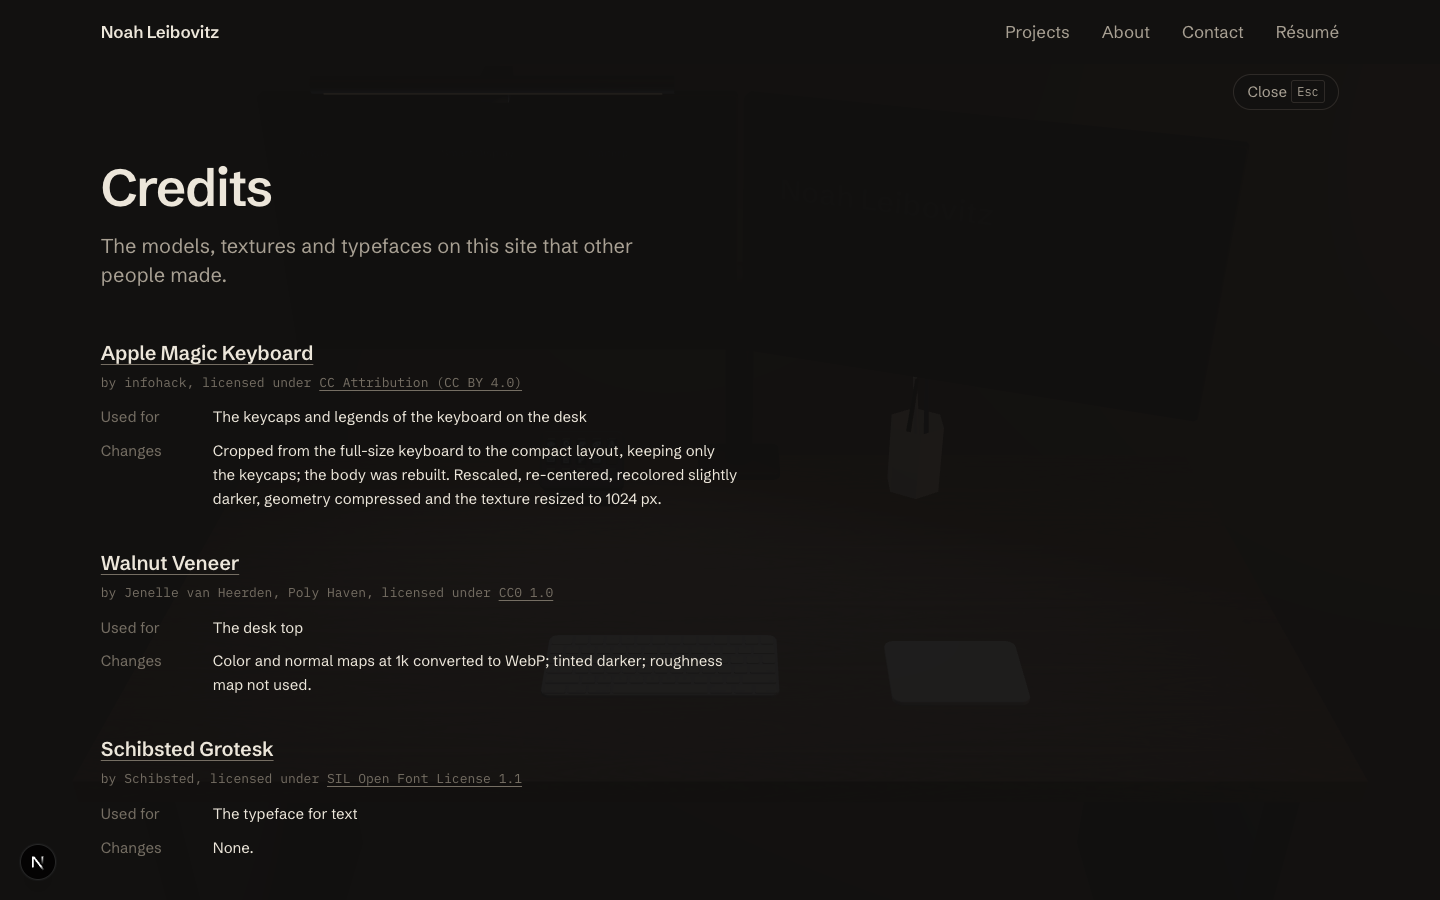
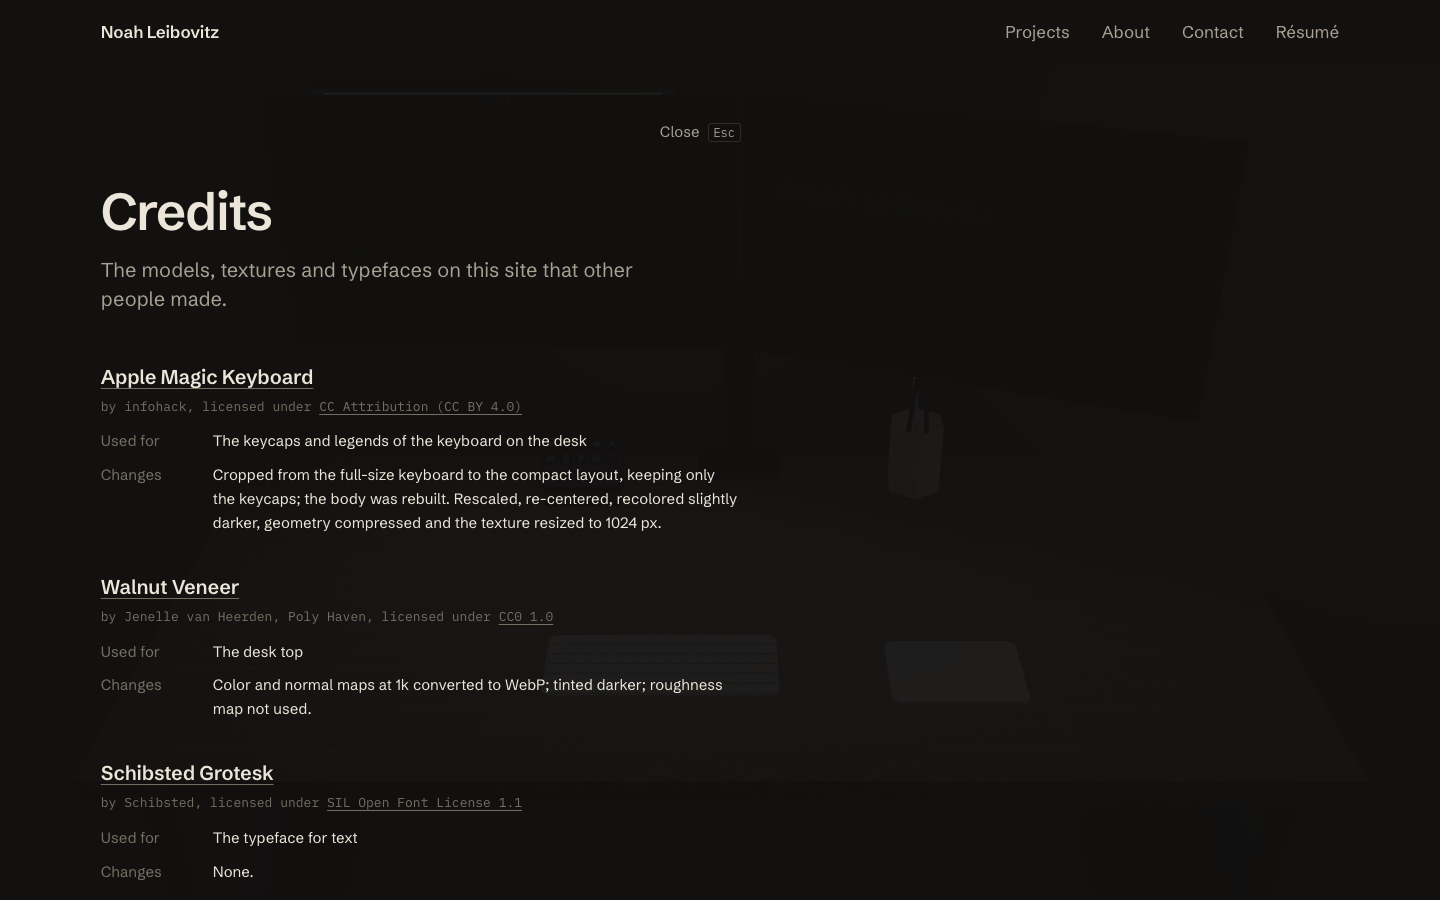
Keep test screenshots out of git so branches never conflict over them
npm run flows now writes its screenshots to the ignored test-results/
folder, and the tracked checkpoint screenshots are back to main's.

diff --git a/CLAUDE.md b/CLAUDE.md
@@ -154,8 +154,8 @@ assets-src/      keyboard.glb, textures/                — git-ignored
 - 2026-11-11 — **Jupiterp's reach** (Noah: "used by a significant amount of people each semester", "most of the School uses it"). The page says "a large share of Maryland's students" in the summary, the first paragraph and a "Who it reaches" part. No number is given because none is published (README, repository); it is Noah's own account, marked with a TODO to replace with a figure from the maintainers.
 - 2026-11-11 — **Argus's miniature now shows the FlowSavvy hand-off** (Noah's request), replacing the queue. Left: the deadlines Argus collected. Right: a week in FlowSavvy with classes on it and each deadline's work fitted into the first free time before it is due (soonest deadline first). One button steps through: a new assignment is posted, a post moves the midterm, a meeting is added, start over; the blocks glide to their new times. It is a schematic of the idea, not FlowSavvy's real rules or screens, and the caption says so. The story gained a "From deadline to calendar" part; that description is a draft for Noah to confirm.
 
-- 2026-11-11 — **Features on their own branches** (Noah: "put each feature on a separate branch so I can keep and remove things"). Each feature branches from `fix/page-close`, keeps its notes in `docs/features/<name>.md`, its browser checks in `scripts/checks/<name>.mjs` (run by `npm run flows`), and its styles in its own CSS file, so the branches merge without touching the same lines. Read `docs/features/` for what each one decided.
-- 2026-11-11 — **Close and Esc.** Close is a pill fixed in the window's top-right corner under the header (it used to sit at the end of the text column, which is mid-window on a wide screen). Esc now closes on key-down or key-up, because an embedded browser pane can keep the key-down for itself.
+- 2026-11-11 — **Features on their own branches** (Noah: "put each feature on a separate branch so I can keep and remove things"). Each feature branches from `fix/page-close`, keeps its notes in `docs/features/<name>.md`, its browser checks in `scripts/checks/<name>.mjs` (run by `npm run flows`), and its styles in its own CSS file, so the branches merge without touching the same lines. `npm run flows` writes its screenshots to the ignored `test-results/` folder, and feature branches do not re-capture the link-preview image, for the same reason: run `npm run share-image` after merging. Read `docs/features/` for what each one decided.
+- 2026-11-11 — **Close and Esc.** Close is a pill fixed in the window's top-right corner under the header (it used to sit at the end of the text column, which is mid-window on a wide screen). Esc closes on key-down or key-up, because an embedded browser pane can keep the key-down for itself, and its listener is attached once and reads the address when the key arrives, so it works the instant a page opens.
 
 ## Open questions for Noah
 

diff --git a/docs/features/README.md b/docs/features/README.md
@@ -1,9 +1,9 @@
 # Features on their own branches
 
-Each file here records one feature: what it is, the decisions made, and how to keep or drop it.
+Each feature has one file in this folder: what it is, the decisions made, and how to keep or drop it. A feature's file exists only on that feature's branch (and wherever it has been merged).
 
-| Branch | Notes |
-|---|---|
-| `fix/page-close` | The base for the others: Close pinned to the top-right corner, Esc on key-up as well as key-down. Recorded in `CLAUDE.md`. |
+All feature branches start from `fix/page-close`, which pins Close to the top-right corner and makes Esc reliable. That one is recorded in `CLAUDE.md`.
 
 To keep a feature, merge its branch into `main`. To drop it, delete the branch. Each feature also adds one file to `scripts/checks/`, which `npm run flows` runs.
+
+After merging a feature that changes what a monitor shows or how the desk looks, run `npm run share-image` (with the dev server running) to re-capture the link-preview image. The feature branches leave that image alone so they never conflict over it.
